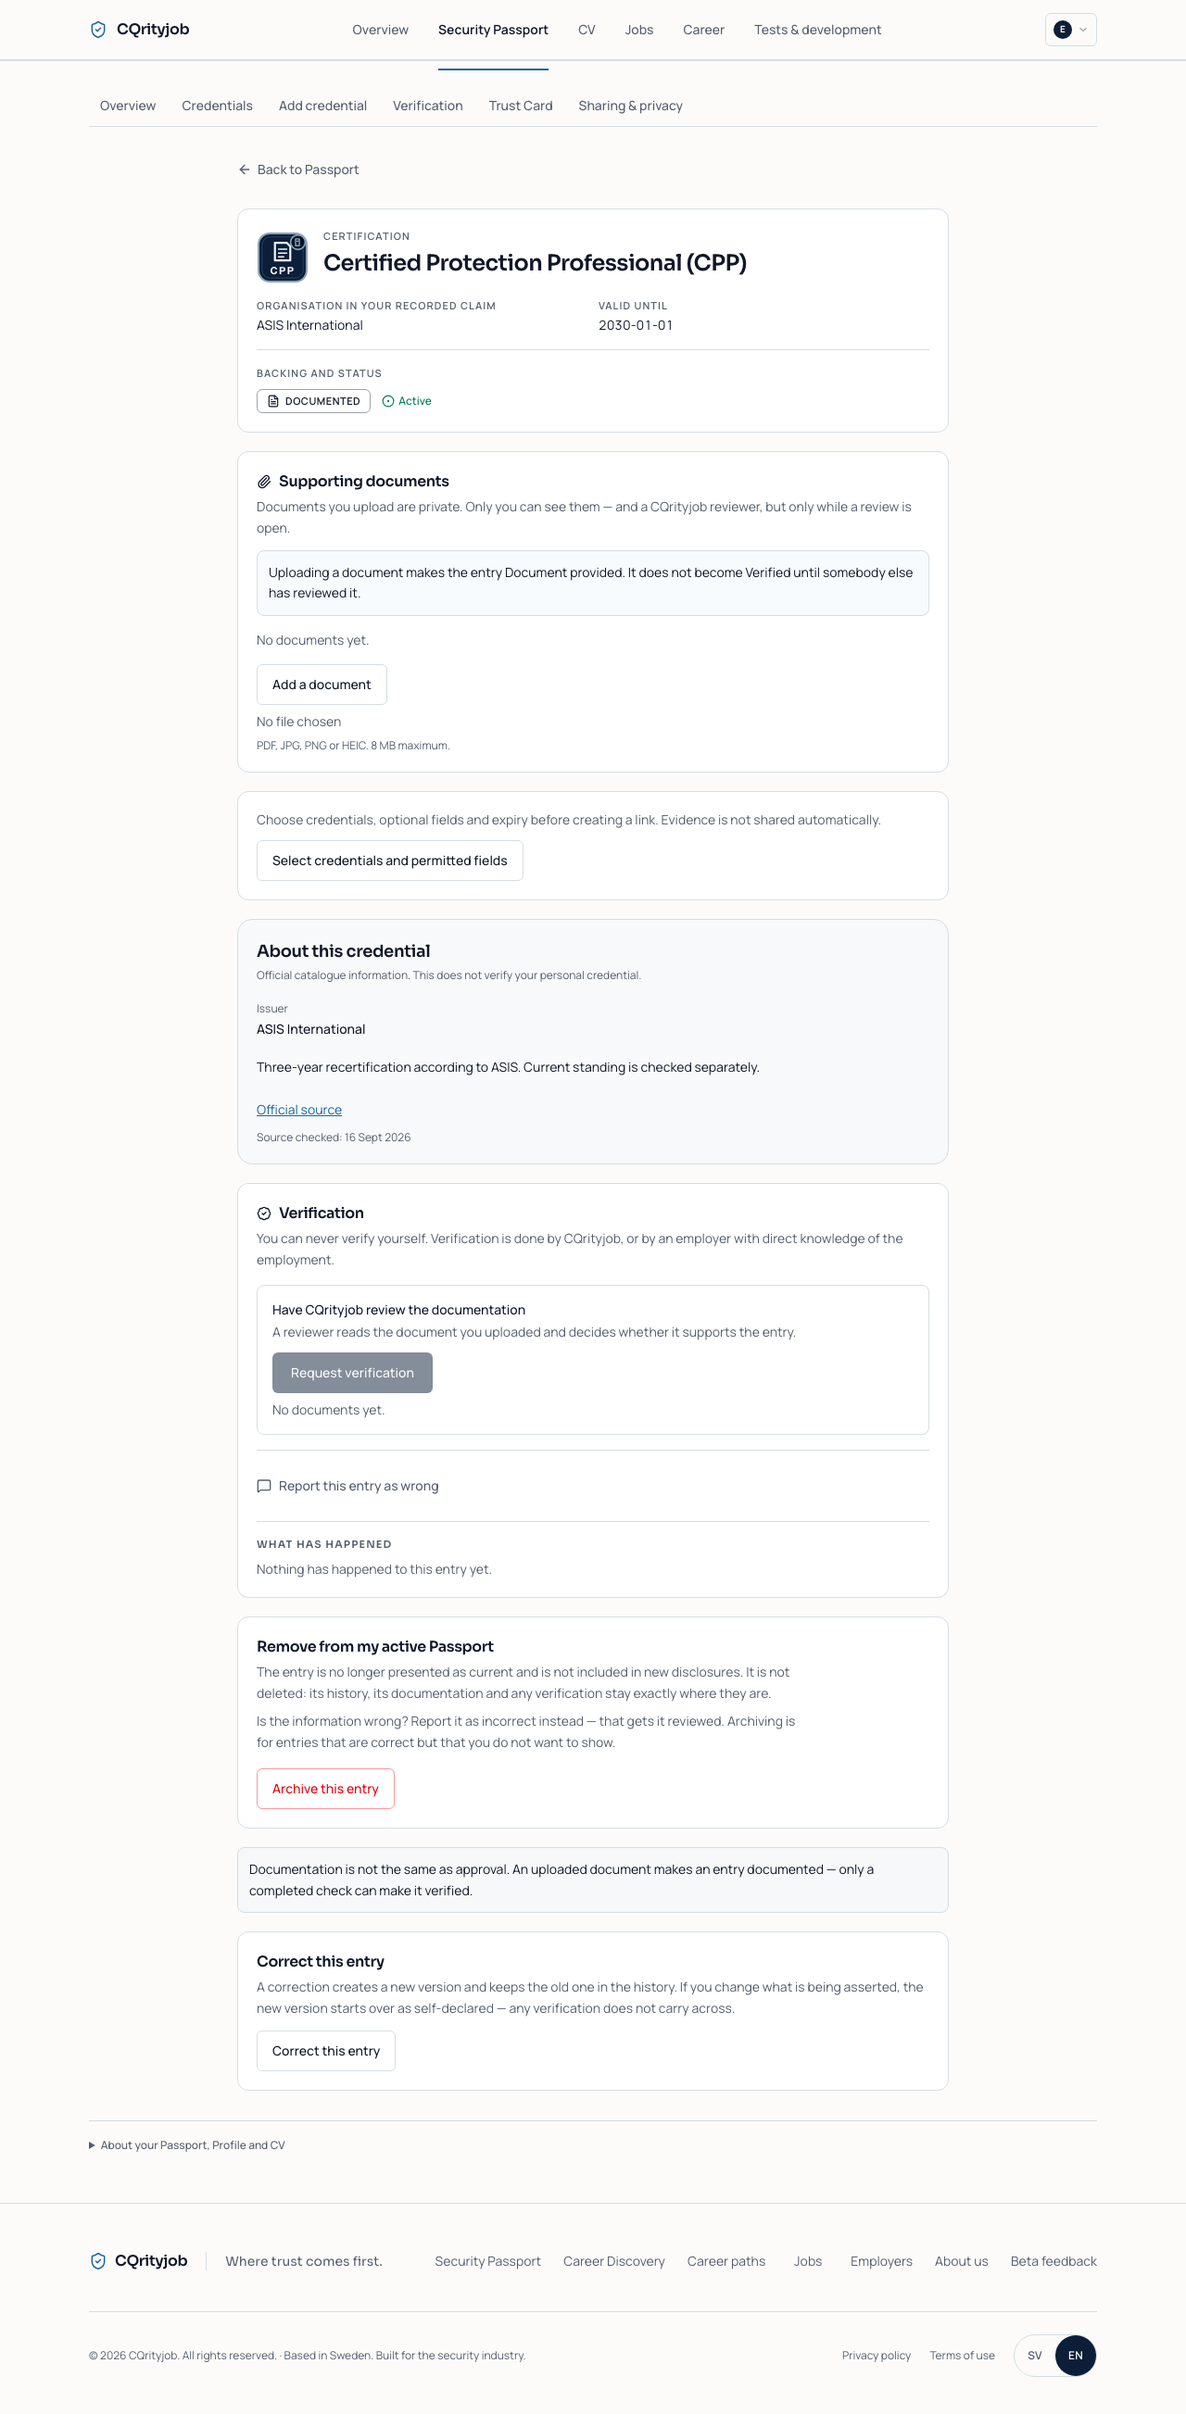
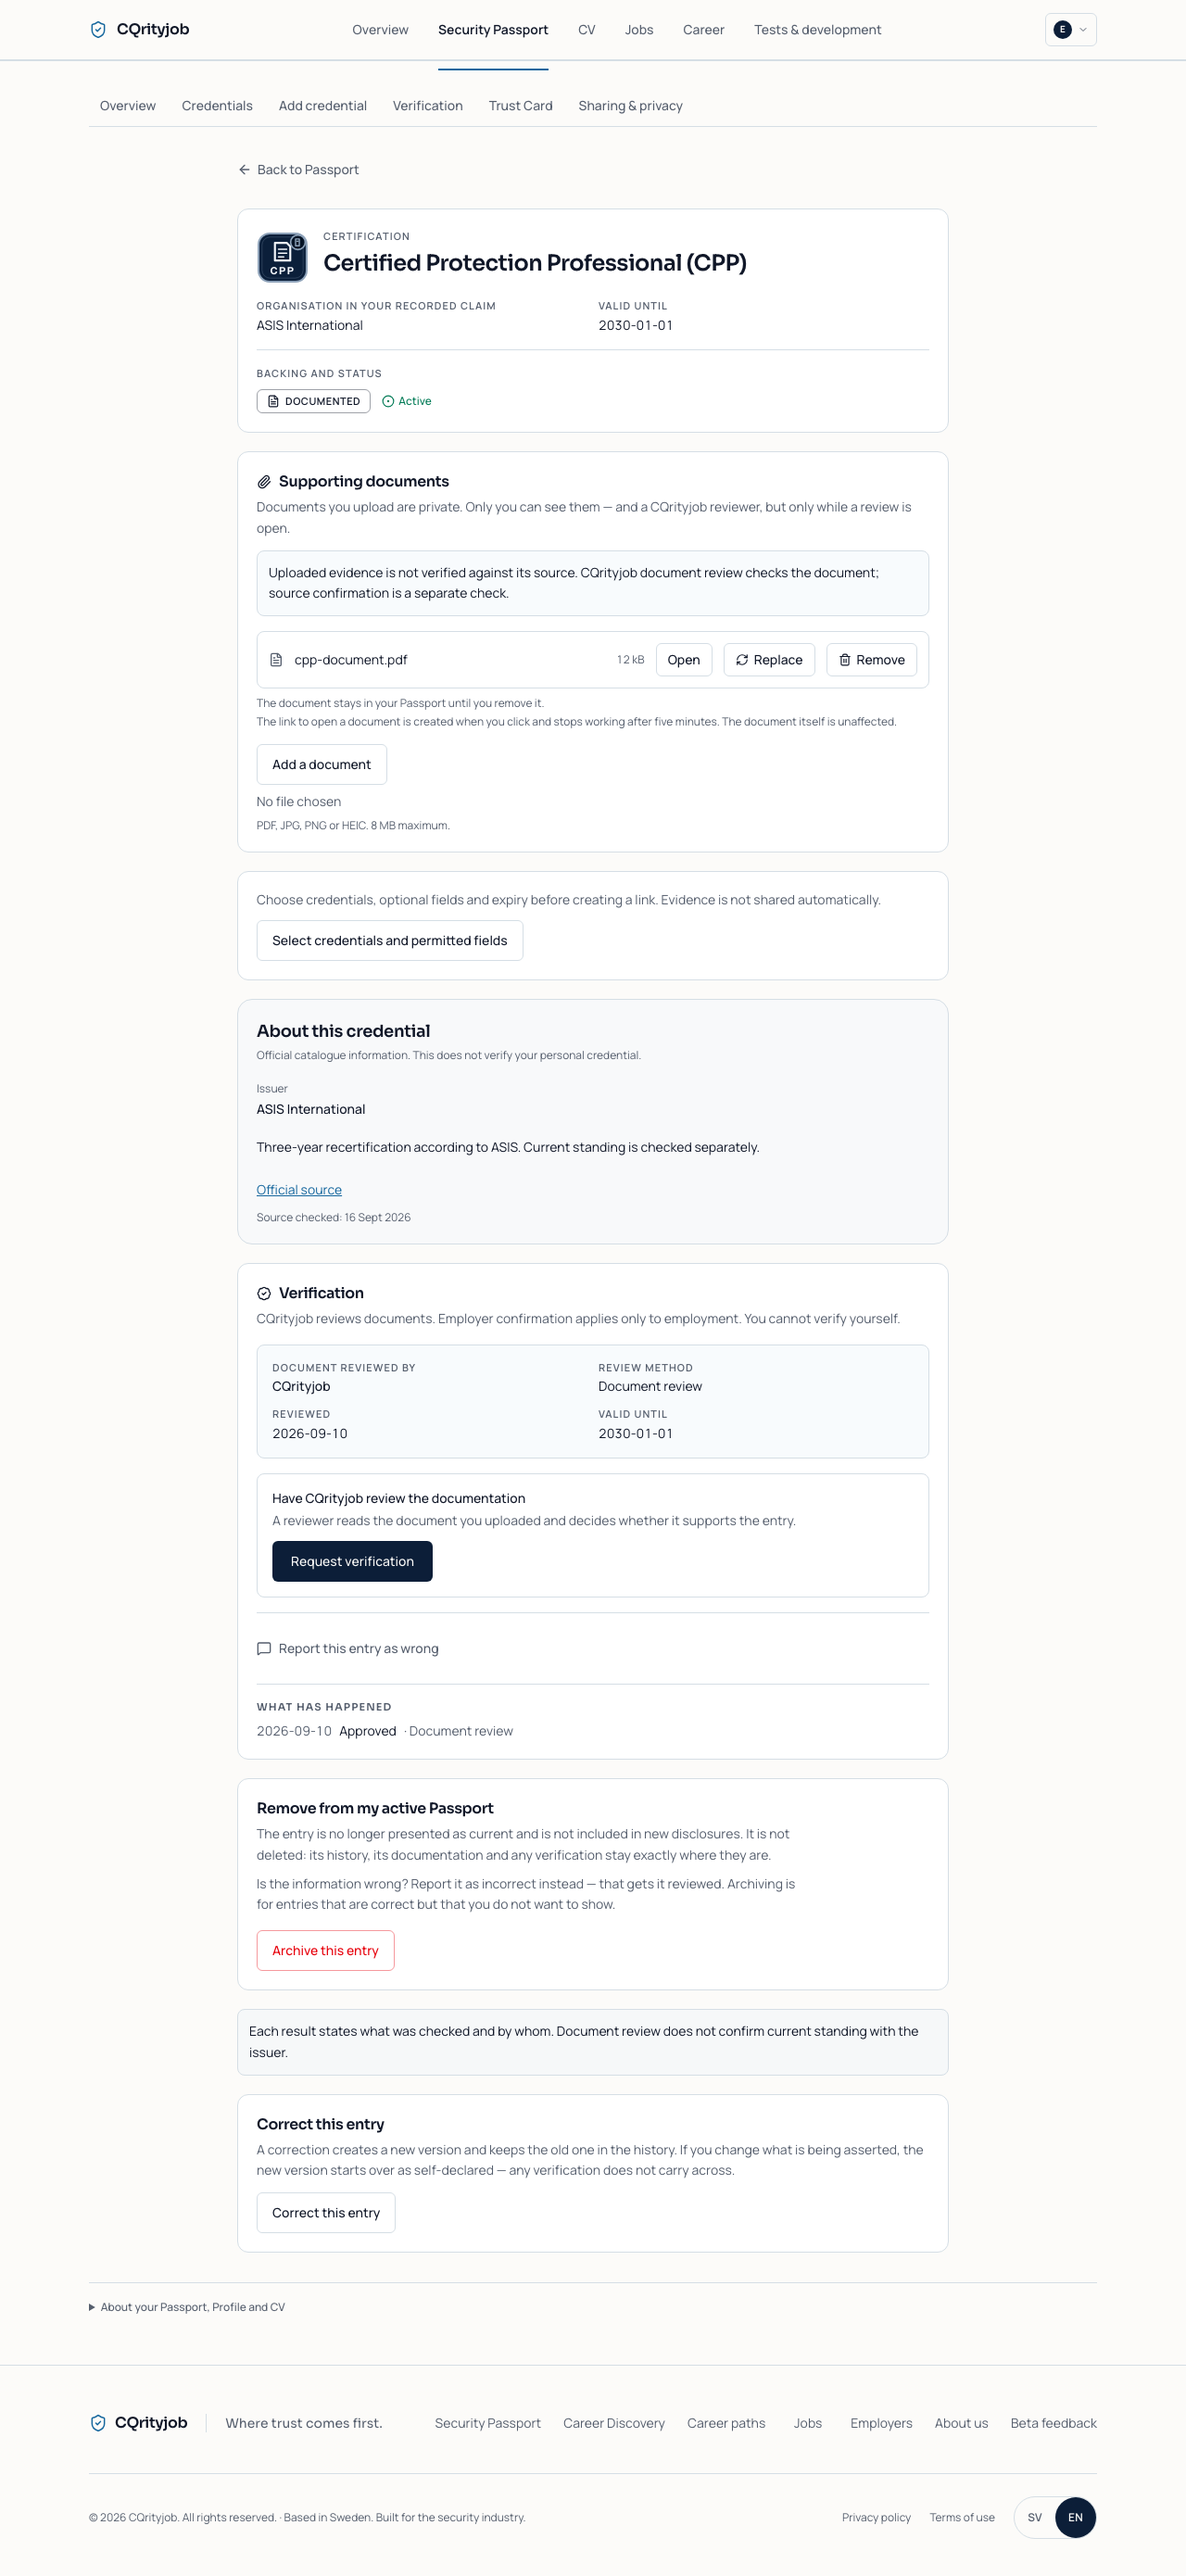
Clarify document review and date completed decisions accurately

diff --git a/src/lib/security-passport/i18n.ts b/src/lib/security-passport/i18n.ts
@@ -980,7 +980,7 @@ const sv = {
   "ev.uploading": "Laddar upp …",
   "ev.none": "Inga dokument ännu.",
   "ev.ceiling":
-    "Att ladda upp ett dokument gör uppgiften Dokument inlämnat. Det blir inte Verifierat förrän någon annan har granskat det.",
+    "Uppladdat underlag är inte verifierat mot källan. CQrityjobs dokumentgranskning gäller dokumentet; en källbekräftelse är en separat kontroll.",
   "ev.limits": "PDF, JPG, PNG eller HEIC. Högst 8 MB.",
   "ev.tooLarge": "Filen är för stor. Högst 8 MB.",
   "ev.badType": "Filtypen stöds inte. Använd PDF, JPG, PNG eller HEIC.",
@@ -1022,7 +1022,7 @@ const sv = {
   "ev.count": "dokument",
   "ver.title": "Verifiering",
   "ver.lead":
-    "Du kan aldrig verifiera dig själv. Verifiering görs av CQrityjob eller av en arbetsgivare som känner till anställningen.",
+    "CQrityjob granskar dokument. Arbetsgivarbekräftelse gäller enbart anställningar. Du kan inte verifiera dig själv.",
   "ver.request": "Begär verifiering",
   "ver.requestCq": "Låt CQrityjob granska dokumentationen",
   "ver.requestCqHelp":
@@ -2108,7 +2108,7 @@ const sv = {
   "cred.category.appointment": "Tidsbegränsat förordnande",
   "cred.field.validFromHelp": "Endast om beslutet anger ett annat startdatum än beslutsdatumet.",
   "cred.docsNotApproval":
-    "Underlag är inte samma sak som godkännande. En uppladdad handling gör uppgiften dokumenterad — bara en genomförd kontroll kan göra den verifierad.",
+    "Varje resultat visar vad som kontrollerats och av vem. Dokumentgranskning bekräftar inte aktuell status hos utfärdaren.",
   "cred.evidenceNext":
     "När uppgiften är tillagd kan du ladda upp underlag och skicka den för kontroll.",
   "cred.addAction": "Lägg till behörighet",
@@ -3022,7 +3022,7 @@ const en: Record<PassportCopyKey, string> = {
   "ev.uploading": "Uploading …",
   "ev.none": "No documents yet.",
   "ev.ceiling":
-    "Uploading a document makes the entry Document provided. It does not become Verified until somebody else has reviewed it.",
+    "Uploaded evidence is not verified against its source. CQrityjob document review checks the document; source confirmation is a separate check.",
   "ev.limits": "PDF, JPG, PNG or HEIC. 8 MB maximum.",
   "ev.tooLarge": "That file is too large. 8 MB maximum.",
   "ev.badType": "That file type is not supported. Use PDF, JPG, PNG or HEIC.",
@@ -3051,7 +3051,7 @@ const en: Record<PassportCopyKey, string> = {
   "ev.count": "documents",
   "ver.title": "Verification",
   "ver.lead":
-    "You can never verify yourself. Verification is done by CQrityjob, or by an employer with direct knowledge of the employment.",
+    "CQrityjob reviews documents. Employer confirmation applies only to employment. You cannot verify yourself.",
   "ver.request": "Request verification",
   "ver.requestCq": "Have CQrityjob review the documentation",
   "ver.requestCqHelp":
@@ -3993,7 +3993,7 @@ const en: Record<PassportCopyKey, string> = {
   "cred.field.validFromHelp":
     "Only if the decision states a start date other than the decision date.",
   "cred.docsNotApproval":
-    "Documentation is not the same as approval. An uploaded document makes an entry documented — only a completed check can make it verified.",
+    "Each result states what was checked and by whom. Document review does not confirm current standing with the issuer.",
   "cred.evidenceNext":
     "Once the entry is added you can upload documentation and submit it for checking.",
   "cred.addAction": "Add a credential",

diff --git a/e2e/passport-product-visual.spec.ts b/e2e/passport-product-visual.spec.ts
@@ -258,6 +258,48 @@ for (const lang of ["en", "sv"] as const) {
         },
       ],
     };
+    const reviewHistory = {
+      requests: [
+        {
+          id: "demo-review",
+          claimId: claim.id,
+          periodId: null,
+          kind: "cqrityjob_review",
+          status: "approved",
+          submittedAt: "2026-09-09T12:00:00Z",
+          decidedAt: "2026-09-10T12:00:00Z",
+          method: "document_review",
+          holderMessage: null,
+          validFrom: "2026-09-10",
+          validUntil: "2030-01-01",
+          targetEmployerId: null,
+        },
+      ],
+      decisions: [
+        {
+          id: "demo-decision",
+          requestId: "demo-review",
+          decision: "approved",
+          organisation: "CQrityjob",
+          method: "document_review",
+          decidedAt: "2026-09-10T12:00:00Z",
+          validFrom: "2026-09-10",
+          validUntil: "2030-01-01",
+        },
+      ],
+    };
+    const evidence = [
+      {
+        id: "demo-private-evidence",
+        claimId: claim.id,
+        periodId: null,
+        fileName: "cpp-document.pdf",
+        mimeType: "application/pdf",
+        sizeBytes: 12345,
+        uploadedAt: "2026-09-09T11:00:00Z",
+        lifecycleState: "active",
+      },
+    ];
     const recipientPayload = {
       status: "active",
       package: "selected_merits",
@@ -303,9 +345,13 @@ for (const lang of ["en", "sv"] as const) {
           ? { ...snapshot, holder: { ...snapshot.holder, claims: demoClaims } }
           : name === "getInternationalPassportMetadata"
             ? demoMetadata
-            : name === "getPublicDisclosureFromCookie"
-              ? recipientPayload
-              : undefined;
+            : name === "listMyVerificationRequests"
+              ? reviewHistory
+              : name === "listMyEvidence"
+                ? evidence
+                : name === "getPublicDisclosureFromCookie"
+                  ? recipientPayload
+                  : undefined;
       if (result !== undefined)
         return route.fulfill({
           status: 200,
@@ -348,6 +394,8 @@ for (const lang of ["en", "sv"] as const) {
     await capture("add-review");
     await page.goto(`${base}/passport/entry/claim/${claim.id}`);
     await expect(page.locator("[data-definition-context]")).toBeVisible();
+    await expect(page.locator("[data-verification-history]")).toContainText("2026-09-10");
+    await expect(page.locator("[data-verification-history]")).not.toContainText("2026-09-09");
     await capture("credential-detail");
     await page.goto(`${base}/passport/card`);
     await expect(page.locator("[data-compact-passport-card]")).toContainText(

diff --git a/src/components/security-passport/live/VerificationPanel.tsx b/src/components/security-passport/live/VerificationPanel.tsx
@@ -689,11 +689,11 @@ export function VerificationPanel({
         {requests.length === 0 ? (
           <p className="mt-2 text-sm text-muted-foreground">{pt("ver.historyEmpty")}</p>
         ) : (
-          <ul className="mt-2 space-y-1.5">
+          <ul data-verification-history className="mt-2 space-y-1.5">
             {requests.map((r) => (
               <li key={r.id} className="flex flex-wrap items-baseline gap-x-2 text-sm">
                 <span className="tabular-nums text-muted-foreground">
-                  {r.submittedAt.slice(0, 10)}
+                  {(r.decidedAt ?? r.submittedAt).slice(0, 10)}
                 </span>
                 <span className="text-foreground">
                   {pt(STATUS_KEY[r.status] ?? "ver.status.pending")}

diff --git a/docs/passport/product-finalization/README.md b/docs/passport/product-finalization/README.md
@@ -28,6 +28,8 @@ Organisation roles reference the existing authority or certification-body record
 - Personnel approval and civilian SV approval reference Länsstyrelsen. SV remains scope-restricted and not selectable through a scope-free candidate flow. [Guarding companies and personnel](https://www.lansstyrelsen.se/ostergotland/samhalle/tillstand-for-att-utova-verksamhet/bevakningsforetag.html), [SV approval application](https://www.lansstyrelsen.se/download/18.4dec946918b853a3b1e4901/1698847159075/Ans%C3%B6kan%20om%20godk%C3%A4nnande%20av%20skyddsvakt%202023.pdf).
 - SIA licences reference SIA as issuer/regulator. Qualifications distinguish awarding body from training provider; SIA does not deliver training. Licences normally last three years, with the one-year Northern Ireland vehicle-immobilisation exception. [Licensing](https://www.gov.uk/guidance/apply-for-an-sia-licence), [training](https://www.gov.uk/guidance/check-what-training-you-need-to-get-an-sia-licence).
 
+Detail-page copy distinguishes document review from source confirmation. Review history dates a completed result by its decision date, with submission date used only when no decision date exists.
+
 Legacy holder-entered organisation strings are retained as personal history, labelled as such on detail pages, and no longer promoted to official catalogue facts in the wallet or v2 public payload.
 
 ## Local schema change; hosted approval required
